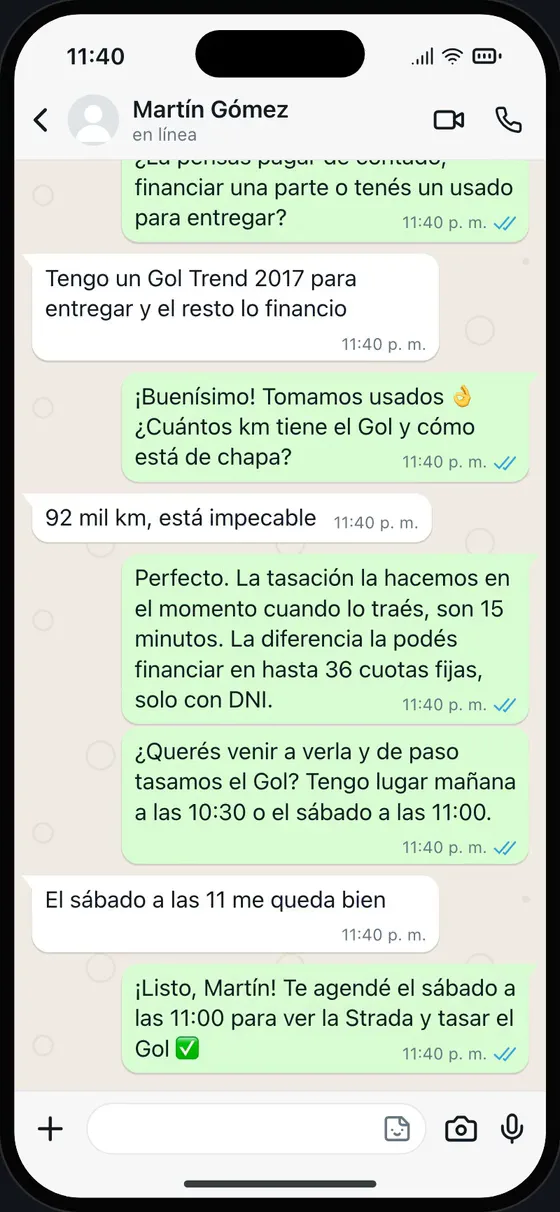
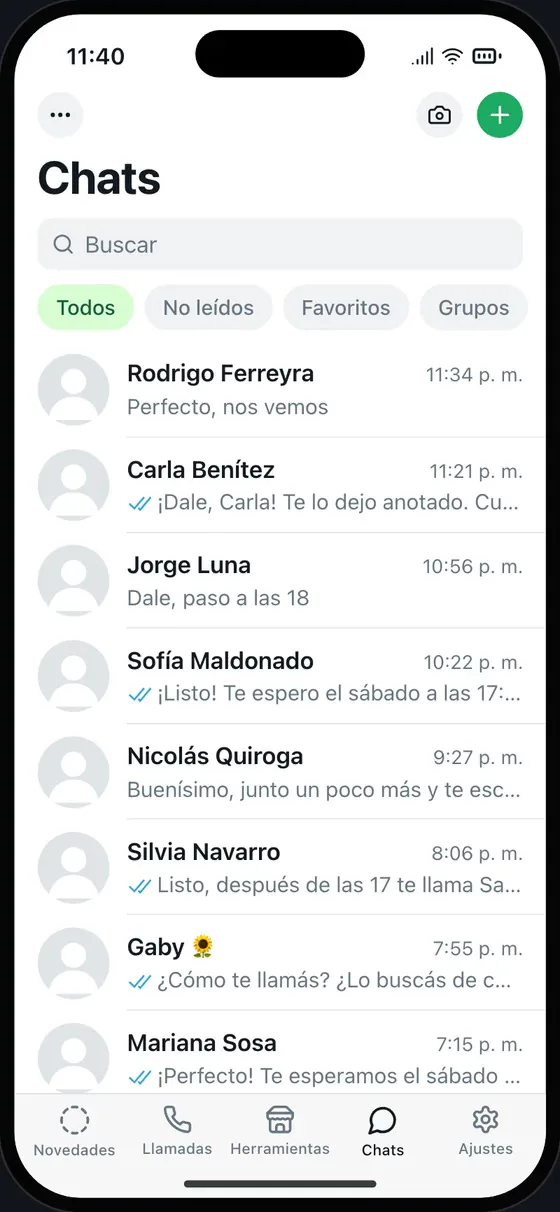
Put the demo phone first on /automatizaciones and version the asset URLs
Cloudflare keeps /assets/* cached for hours, so the page went live with the old
stylesheet and the new section showed up unstyled (the video at full size on a phone).
Styles, scripts and the demo media now carry a content hash in the URL.

The video moves into the hero: next to the title on a wide screen and before it on a
phone. Its steps follow in their own section. The poster is the first frame, so
nothing jumps when playback starts.

diff --git a/club/iman-unificado/experience/reading.css b/club/iman-unificado/experience/reading.css
@@ -1,3 +1,3 @@
-html:has(.reading){height:auto;scroll-behavior:smooth;scroll-padding-top:95px}.reading{height:auto;min-height:100%;overflow:visible;text-align:center}.reading .site-header{position:relative;left:auto;right:auto;margin:0 var(--gutter)}.reading main{position:relative;max-width:1120px;margin:0 auto;padding:0 28px}.reading h1{font-size:clamp(44px,6.6vw,90px);line-height:1.13;letter-spacing:-.05em;text-wrap:balance;margin:0 auto 30px}.reading h2{font-size:clamp(31px,4vw,50px);line-height:1.2;margin:0 0 25px;letter-spacing:-.045em;text-wrap:balance}.reading h3{font:clamp(28px,4vw,45px)/1.2 var(--display);font-weight:400}.reading h3 em{font-family:var(--serif)}.reading p,.reading li{font-size:14px;line-height:1.95;color:#bcc5d3}.reading p a,.reading-content a,.form-note a,.consent a{color:var(--ink);text-decoration:underline;text-underline-offset:4px}.eyebrow,.section-index{font:10px/1.7 var(--mono)!important;letter-spacing:.15em;text-transform:uppercase;color:var(--blue)!important}.reading-hero{padding:90px 0 110px;border-bottom:1px solid #94a4bc30}.reading-hero .eyebrow{margin:0 0 30px}.reading-intro{max-width:650px;margin:0 auto 34px;font-size:16px!important;text-wrap:balance}.reading-content{max-width:740px;margin:0 auto}.reading-section{padding:78px 0 65px;border-bottom:1px solid #94a4bc30}.section-index{display:block;margin-bottom:24px}.reading-section p{max-width:630px;margin:0 auto 18px}.reading-section ul{list-style:none;margin:32px auto 0;padding:0;max-width:590px}.reading-section li{border-top:1px solid #94a4bc22;padding:13px 0}.faq{padding:80px 0 40px}.faq h2{margin-bottom:38px}.faq details{text-align:left;border-top:1px solid #94a4bc40;padding:23px 0}.faq summary{font-size:15px;line-height:1.6;cursor:pointer;padding-right:15px}.faq details p{margin-bottom:0}.inquiry{max-width:760px;margin:0 auto;padding:100px 0 80px;scroll-margin-top:25px}.inquiry>.eyebrow{margin-bottom:24px}.intro-small{margin-bottom:45px!important}.form-grid{display:grid;grid-template-columns:1fr 1fr;gap:26px 22px}.field{display:flex;flex-direction:column;gap:11px;text-align:left;font:12px/1.6 var(--serif);margin-bottom:25px}.form-grid .field{margin-bottom:0}.field input,.field select,.field textarea{width:100%;border:1px solid #94a4bc66;border-radius:0;background:#161a23;color:var(--ink);padding:16px;font:14px/1.6 var(--serif);min-height:54px;appearance:auto}.field textarea{resize:vertical;min-height:150px}.field input::placeholder,.field textarea::placeholder{color:#8190a6}.field input:focus,.field select:focus,.field textarea:focus{border-color:var(--blue);outline:1px solid var(--blue);outline-offset:2px}.form-grid{margin-bottom:27px}.service-choices{border:0;padding:0;margin:0 0 35px;text-align:left}.service-choices legend{font-size:13px}.service-choices p{font-size:12px;margin:9px 0 18px}.service-choices>div{display:grid;grid-template-columns:repeat(3,1fr);gap:10px}.service-choice{position:relative;display:flex;align-items:center;gap:10px;padding:16px 13px;border:1px solid #94a4bc55;cursor:pointer;font-size:11px;line-height:1.6;transition:background .18s,border-color .18s}.service-choice:has(:checked){background:#94a4bc1a;border-color:#94a4bc}.service-choice input,.consent input{accent-color:#94a4bc;width:16px;height:16px;flex:0 0 16px;cursor:pointer}.consent{display:flex;align-items:flex-start;text-align:left;gap:12px;font-size:11px;line-height:1.9;color:#bcc5d3;margin:0 0 30px}.consent input{margin-top:3px}.honey{position:absolute;left:-9999px;width:1px;height:1px;overflow:hidden}.field-error,.form-error{color:#edb9b9!important;font-size:12px;line-height:1.7}.field-error{display:block;margin-top:9px}.form-error{padding:15px;border:1px solid #edb9b955}.form-status{font-size:12px!important}.form-note{font-size:11px!important;margin:23px 0}.cta:disabled{opacity:.5;cursor:wait}.inquiry-success{padding:30px 10px}.reading-footer{max-width:1120px;margin:0 auto;padding:45px 28px 35px;border-top:1px solid #94a4bc30;display:flex;flex-direction:column;gap:27px;font-size:11px;color:var(--muted)}.reading-footer>a{font:24px/1 var(--display);color:var(--ink)}.reading-footer nav{display:flex;flex-wrap:wrap;justify-content:center;gap:15px 25px}.reading-footer nav a:hover{text-decoration:underline;text-underline-offset:4px}.reading-footer>span{font:10px var(--mono)}.service-directory{max-width:740px;margin:auto}.service-directory article{padding:65px 0;border-bottom:1px solid #94a4bc30}.service-directory p{max-width:630px;margin-left:auto;margin-right:auto}.legacy-reading .document-head{padding:80px 0}.legacy-reading .archive-article,.legacy-reading .legal-document{max-width:730px;margin:0 auto 70px;text-align:left}.legacy-reading .archive-article h2,.legacy-reading .legal-document h2{margin-top:55px}.legacy-reading .archive-article h3{font-size:28px;margin-top:35px}.legacy-reading .resource-entry{display:block;border-top:1px solid #94a4bc30;padding:40px 0;max-width:760px;margin:auto}.legacy-reading .resource-entry>span{font:10px var(--mono);color:var(--blue)}.legacy-reading .resource-entry h2{margin:20px 0;font-size:33px}.legacy-reading .resource-entry p{max-width:670px;margin:auto}.legacy-reading .document-links{padding:50px 0}.legacy-reading table{border-collapse:collapse;width:100%;font-size:12px}.legacy-reading td,.legacy-reading th{padding:12px;border:1px solid #94a4bc40}.legacy-reading .table-wrap{overflow:auto}.cta-row{display:flex;flex-wrap:wrap;justify-content:center;gap:14px}.cta.solid{background:var(--ink);color:#11141b;border-color:var(--ink)}.demo{padding:85px 0 80px;border-bottom:1px solid #94a4bc30}.demo>.eyebrow{margin:0 0 24px}.demo h2{margin-bottom:50px}.demo-stage{display:grid;grid-template-columns:minmax(0,300px) minmax(0,360px);justify-content:center;align-items:center;gap:60px}.demo-video{display:block;width:100%;height:auto;border-radius:14.4%/6.65%;background:#050505;box-shadow:0 0 0 1px #2b2b2e,0 30px 60px #0008}.demo-steps{list-style:none;margin:0;padding:0;text-align:left;counter-reset:paso}.demo-steps li{position:relative;counter-increment:paso;padding:17px 0 17px 44px;border-top:1px solid #94a4bc22;cursor:pointer;opacity:.5;transition:opacity .35s}.demo-steps li:last-child{border-bottom:1px solid #94a4bc22}.demo-steps li::before{content:'0' counter(paso);position:absolute;left:0;top:22px;font:11px/1 var(--mono);letter-spacing:.1em;color:var(--blue)}.demo-steps li.on{opacity:1}.demo-steps li.on::before{color:var(--gold)}.demo-steps b{display:block;font:400 21px/1.3 var(--display);letter-spacing:-.03em;color:var(--ink)}.demo-steps span{display:block;font-size:12px;line-height:1.8;color:#bcc5d3;margin-top:4px}.demo-note{max-width:560px;margin:42px auto 34px;font-size:11px!important;line-height:1.9!important;color:var(--muted)!important}[hidden]{display:none!important}
-@media(max-width:600px){.demo{padding:60px 0 55px}.demo h2{margin-bottom:34px}.demo-stage{grid-template-columns:1fr;gap:30px}.demo-video{max-width:270px;margin:0 auto}.demo-steps{max-width:340px;margin:0 auto}.demo-steps b{font-size:19px}.cta-row .cta{width:100%;max-width:340px}.reading main{padding:0 23px}.reading-hero{padding:55px 0 70px}.reading-intro{font-size:14px!important}.reading h1{font-size:43px}.reading-section{padding:55px 0 40px}.reading p,.reading li{font-size:13px}.inquiry{padding:70px 0 50px}.form-grid{grid-template-columns:1fr;gap:24px}.field input,.field select,.field textarea{font-size:16px}.service-choices>div{grid-template-columns:1fr}.service-choice{font-size:12px;padding:17px}.faq summary{font-size:13px}.reading-footer{margin:0 23px;padding-left:0;padding-right:0}.legacy-reading .archive-article h2{font-size:30px}}
+html:has(.reading){height:auto;scroll-behavior:smooth;scroll-padding-top:95px}.reading{height:auto;min-height:100%;overflow:visible;text-align:center}.reading .site-header{position:relative;left:auto;right:auto;margin:0 var(--gutter)}.reading main{position:relative;max-width:1120px;margin:0 auto;padding:0 28px}.reading h1{font-size:clamp(44px,6.6vw,90px);line-height:1.13;letter-spacing:-.05em;text-wrap:balance;margin:0 auto 30px}.reading h2{font-size:clamp(31px,4vw,50px);line-height:1.2;margin:0 0 25px;letter-spacing:-.045em;text-wrap:balance}.reading h3{font:clamp(28px,4vw,45px)/1.2 var(--display);font-weight:400}.reading h3 em{font-family:var(--serif)}.reading p,.reading li{font-size:14px;line-height:1.95;color:#bcc5d3}.reading p a,.reading-content a,.form-note a,.consent a{color:var(--ink);text-decoration:underline;text-underline-offset:4px}.eyebrow,.section-index{font:10px/1.7 var(--mono)!important;letter-spacing:.15em;text-transform:uppercase;color:var(--blue)!important}.reading-hero{padding:90px 0 110px;border-bottom:1px solid #94a4bc30}.reading-hero .eyebrow{margin:0 0 30px}.reading-intro{max-width:650px;margin:0 auto 34px;font-size:16px!important;text-wrap:balance}.reading-content{max-width:740px;margin:0 auto}.reading-section{padding:78px 0 65px;border-bottom:1px solid #94a4bc30}.section-index{display:block;margin-bottom:24px}.reading-section p{max-width:630px;margin:0 auto 18px}.reading-section ul{list-style:none;margin:32px auto 0;padding:0;max-width:590px}.reading-section li{border-top:1px solid #94a4bc22;padding:13px 0}.faq{padding:80px 0 40px}.faq h2{margin-bottom:38px}.faq details{text-align:left;border-top:1px solid #94a4bc40;padding:23px 0}.faq summary{font-size:15px;line-height:1.6;cursor:pointer;padding-right:15px}.faq details p{margin-bottom:0}.inquiry{max-width:760px;margin:0 auto;padding:100px 0 80px;scroll-margin-top:25px}.inquiry>.eyebrow{margin-bottom:24px}.intro-small{margin-bottom:45px!important}.form-grid{display:grid;grid-template-columns:1fr 1fr;gap:26px 22px}.field{display:flex;flex-direction:column;gap:11px;text-align:left;font:12px/1.6 var(--serif);margin-bottom:25px}.form-grid .field{margin-bottom:0}.field input,.field select,.field textarea{width:100%;border:1px solid #94a4bc66;border-radius:0;background:#161a23;color:var(--ink);padding:16px;font:14px/1.6 var(--serif);min-height:54px;appearance:auto}.field textarea{resize:vertical;min-height:150px}.field input::placeholder,.field textarea::placeholder{color:#8190a6}.field input:focus,.field select:focus,.field textarea:focus{border-color:var(--blue);outline:1px solid var(--blue);outline-offset:2px}.form-grid{margin-bottom:27px}.service-choices{border:0;padding:0;margin:0 0 35px;text-align:left}.service-choices legend{font-size:13px}.service-choices p{font-size:12px;margin:9px 0 18px}.service-choices>div{display:grid;grid-template-columns:repeat(3,1fr);gap:10px}.service-choice{position:relative;display:flex;align-items:center;gap:10px;padding:16px 13px;border:1px solid #94a4bc55;cursor:pointer;font-size:11px;line-height:1.6;transition:background .18s,border-color .18s}.service-choice:has(:checked){background:#94a4bc1a;border-color:#94a4bc}.service-choice input,.consent input{accent-color:#94a4bc;width:16px;height:16px;flex:0 0 16px;cursor:pointer}.consent{display:flex;align-items:flex-start;text-align:left;gap:12px;font-size:11px;line-height:1.9;color:#bcc5d3;margin:0 0 30px}.consent input{margin-top:3px}.honey{position:absolute;left:-9999px;width:1px;height:1px;overflow:hidden}.field-error,.form-error{color:#edb9b9!important;font-size:12px;line-height:1.7}.field-error{display:block;margin-top:9px}.form-error{padding:15px;border:1px solid #edb9b955}.form-status{font-size:12px!important}.form-note{font-size:11px!important;margin:23px 0}.cta:disabled{opacity:.5;cursor:wait}.inquiry-success{padding:30px 10px}.reading-footer{max-width:1120px;margin:0 auto;padding:45px 28px 35px;border-top:1px solid #94a4bc30;display:flex;flex-direction:column;gap:27px;font-size:11px;color:var(--muted)}.reading-footer>a{font:24px/1 var(--display);color:var(--ink)}.reading-footer nav{display:flex;flex-wrap:wrap;justify-content:center;gap:15px 25px}.reading-footer nav a:hover{text-decoration:underline;text-underline-offset:4px}.reading-footer>span{font:10px var(--mono)}.service-directory{max-width:740px;margin:auto}.service-directory article{padding:65px 0;border-bottom:1px solid #94a4bc30}.service-directory p{max-width:630px;margin-left:auto;margin-right:auto}.legacy-reading .document-head{padding:80px 0}.legacy-reading .archive-article,.legacy-reading .legal-document{max-width:730px;margin:0 auto 70px;text-align:left}.legacy-reading .archive-article h2,.legacy-reading .legal-document h2{margin-top:55px}.legacy-reading .archive-article h3{font-size:28px;margin-top:35px}.legacy-reading .resource-entry{display:block;border-top:1px solid #94a4bc30;padding:40px 0;max-width:760px;margin:auto}.legacy-reading .resource-entry>span{font:10px var(--mono);color:var(--blue)}.legacy-reading .resource-entry h2{margin:20px 0;font-size:33px}.legacy-reading .resource-entry p{max-width:670px;margin:auto}.legacy-reading .document-links{padding:50px 0}.legacy-reading table{border-collapse:collapse;width:100%;font-size:12px}.legacy-reading td,.legacy-reading th{padding:12px;border:1px solid #94a4bc40}.legacy-reading .table-wrap{overflow:auto}.cta-row{display:flex;flex-wrap:wrap;justify-content:center;gap:14px}.cta.solid{background:var(--ink);color:#11141b;border-color:var(--ink)}.demo-hero{display:grid;grid-template-columns:minmax(0,1fr) 300px;align-items:center;gap:70px;padding:70px 0 90px;text-align:left}.demo-hero h1{font-size:clamp(40px,5.2vw,70px);margin:0 0 28px}.demo-hero .reading-intro{margin:0 0 34px}.demo-hero .cta-row{justify-content:flex-start}.demo-video{display:block;width:100%;height:auto;border-radius:14.4%/6.65%;background:#050505;box-shadow:0 0 0 1px #2b2b2e,0 30px 60px #0008}.demo{padding:85px 0 80px;border-bottom:1px solid #94a4bc30}.demo>.eyebrow{margin:0 0 24px}.demo h2{margin-bottom:40px}.demo-steps{list-style:none;margin:0 auto;padding:0;max-width:520px;text-align:left;counter-reset:paso}.demo-steps li{position:relative;counter-increment:paso;padding:17px 0 17px 44px;border-top:1px solid #94a4bc22;cursor:pointer;opacity:.5;transition:opacity .35s}.demo-steps li:last-child{border-bottom:1px solid #94a4bc22}.demo-steps li::before{content:'0' counter(paso);position:absolute;left:0;top:22px;font:11px/1 var(--mono);letter-spacing:.1em;color:var(--blue)}.demo-steps li.on{opacity:1}.demo-steps li.on::before{color:var(--gold)}.demo-steps b{display:block;font:400 21px/1.3 var(--display);letter-spacing:-.03em;color:var(--ink)}.demo-steps span{display:block;font-size:12px;line-height:1.8;color:#bcc5d3;margin-top:4px}.demo-note{max-width:560px;margin:42px auto 34px;font-size:11px!important;line-height:1.9!important;color:var(--muted)!important}[hidden]{display:none!important}
+@media(max-width:600px){.demo-hero{display:flex;flex-direction:column;align-items:center;gap:0;padding:22px 0 60px;text-align:center}.demo-copy{display:contents}.demo-hero .eyebrow{order:0;margin:0 0 20px}.demo-phone{order:1;width:min(64vw,250px);margin:0 0 38px}.demo-hero h1{order:2;font-size:40px;margin:0 0 22px}.demo-hero .reading-intro{order:3;margin:0 0 28px}.demo-hero .cta-row{order:4;justify-content:center;width:100%}.demo{padding:60px 0 55px}.demo h2{margin-bottom:30px}.demo-steps b{font-size:19px}.cta-row .cta{width:100%;max-width:340px}.reading main{padding:0 23px}.reading-hero{padding:55px 0 70px}.reading-intro{font-size:14px!important}.reading h1{font-size:43px}.reading-section{padding:55px 0 40px}.reading p,.reading li{font-size:13px}.inquiry{padding:70px 0 50px}.form-grid{grid-template-columns:1fr;gap:24px}.field input,.field select,.field textarea{font-size:16px}.service-choices>div{grid-template-columns:1fr}.service-choice{font-size:12px;padding:17px}.faq summary{font-size:13px}.reading-footer{margin:0 23px;padding-left:0;padding-right:0}.legacy-reading .archive-article h2{font-size:30px}}
 @media(prefers-reduced-motion:reduce){.demo-steps li{transition:none}html:has(.reading){scroll-behavior:auto}}

diff --git a/club/iman-unificado/scripts/dark_site.py b/club/iman-unificado/scripts/dark_site.py
@@ -1,7 +1,7 @@
 """Production layer for the approved IMÁN experience and readable service pages."""
 from pathlib import Path
 from html import escape as e
-import json, re, shutil
+import hashlib, json, re, shutil
 
 ROOT=Path(__file__).resolve().parents[1]
 SOURCE=ROOT/'experience'
@@ -17,6 +17,12 @@ def schemas(path,title,desc,extra=()):
 def seo(path,title,desc,extra=()):
     return f'''<link rel="canonical" href="{BASE}{path}"><meta name="robots" content="index,follow,max-image-preview:large"><meta property="og:url" content="{BASE}{path}"><meta property="og:site_name" content="IMÁN"><meta property="og:image" content="{BASE}/assets/editorial-og.png"><meta property="og:image:width" content="1200"><meta property="og:image:height" content="630"><meta property="og:image:alt" content="IMÁN · Vendé más. Trabajá menos."><meta name="twitter:card" content="summary_large_image">{schemas(path,title,desc,extra)}'''
 
+def asset(name):
+    # Cloudflare keeps /assets/* cached for hours: the content hash in the URL makes a new version show up at once.
+    # Files in experience/assets/ are published next to the styles and scripts, in the same folder.
+    source=SOURCE/name if (SOURCE/name).exists() else SOURCE/'assets'/name
+    return f'/assets/experience/{name}?v={hashlib.md5(source.read_bytes()).hexdigest()[:8]}'
+
 def button(label,url):
     return f'<a class="cta" href="{e(url,quote=True)}"><span class="cta-label">{e(label)}</span></a>'
 
@@ -28,16 +34,20 @@ def actions():
 
 # Seconds of the video at which each step happens (experience/assets/demo-agencia.json, written by scripts/capture-agencia-video.mjs).
 DEMO=json.loads((SOURCE/'assets/demo-agencia.json').read_text())
-def demo():
+def demo(s):
+    """Hero of the WhatsApp page: the title next to the dealership demo (on a phone, the video comes first), then its steps."""
+    title=e(s['title']).replace(e(s['emphasis']),'<em>'+e(s['emphasis'])+'</em>')
     steps=[(0,'Llega la consulta','De noche, desde la publicación de Mercado Libre.'),(DEMO['responde'],'Responde en segundos','Con el stock y el precio que cargó la agencia.'),(DEMO['califica'],'Pregunta cómo paga','Contado, financiado o con un usado en parte de pago.'),(DEMO['financia'],'Propone un horario','Explica la financiación y ofrece dos turnos para ver la unidad.'),(DEMO['agenda'],'Agenda la visita','Y le avisa al vendedor que hay un comprador listo.')]
     items=''.join(f'<li data-at="{at}"><b>{e(title)}</b><span>{e(text)}</span></li>' for at,title,text in steps)
-    return f'<section class="demo" aria-labelledby="demo-title"><p class="eyebrow">UN EJEMPLO · AGENCIA DE AUTOS</p><h2 id="demo-title">De la consulta<br><em>a la visita agendada.</em></h2><div class="demo-stage"><video class="demo-video" width="{DEMO["ancho"]}" height="{DEMO["alto"]}" muted loop playsinline preload="metadata" poster="/assets/experience/demo-agencia.webp" aria-label="Video de un asistente de WhatsApp que responde una consulta por una camioneta, pregunta cómo paga el comprador y agenda la visita."><source src="/assets/experience/demo-agencia.mp4" type="video/mp4"></video><ol class="demo-steps">{items}</ol></div><p class="demo-note">Demostración con datos de ejemplo: el asistente se arma con la información y las reglas de cada negocio. Foto del vehículo: Just a Man / Wikimedia Commons, CC BY 4.0.</p>{actions()}</section>'
+    video=f'<video class="demo-video" width="{DEMO["ancho"]}" height="{DEMO["alto"]}" muted loop playsinline preload="metadata" poster="{asset("demo-agencia.webp")}" aria-label="Video de un asistente de WhatsApp que responde una consulta por una camioneta, pregunta cómo paga el comprador y agenda la visita."><source src="{asset("demo-agencia.mp4")}" type="video/mp4"></video>'
+    hero=f'<section class="reading-hero demo-hero"><div class="demo-copy"><p class="eyebrow">{e(s["name"])} · Ejemplo: agencia de autos</p><h1>{title}</h1><p class="reading-intro">{e(s["intro"])}</p>{actions()}</div><div class="demo-phone">{video}</div></section>'
+    return hero+f'<section class="demo" aria-labelledby="demo-title"><p class="eyebrow">QUÉ PASA EN EL VIDEO</p><h2 id="demo-title">De la consulta<br><em>a la visita agendada.</em></h2><ol class="demo-steps">{items}</ol><p class="demo-note">Demostración con datos de ejemplo: el asistente se arma con la información y las reglas de cada negocio. Foto del vehículo: Just a Man / Wikimedia Commons, CC BY 4.0.</p>{actions()}</section>'
 
 def footer():
     return '<footer class="reading-footer"><a href="/">IMÁN</a><nav aria-label="Más sobre IMÁN"><a href="/servicios/">Servicios</a><a href="/recursos/">Guías</a><a href="/agente/">Para agentes</a><a href="/privacidad/">Privacidad</a><a href="https://wa.me/5493535189997">WhatsApp</a></nav><span>Hecho en Argentina.</span></footer>'
 
 def shell(path,title,desc,body,extra=()):
-    return f'''<!doctype html><html lang="es-AR" data-theme="dark"><head><meta charset="utf-8"><meta name="viewport" content="width=device-width,initial-scale=1,viewport-fit=cover"><meta name="theme-color" content="#11141b"><meta name="color-scheme" content="dark"><title>{e(title)}</title><meta name="description" content="{e(desc,quote=True)}"><meta property="og:title" content="{e(title,quote=True)}"><meta property="og:description" content="{e(desc,quote=True)}"><meta property="og:type" content="website"><meta property="og:locale" content="es_AR">{seo(path,title,desc,extra)}<link rel="icon" href="/assets/experience/iman-simbolo.svg" type="image/svg+xml"><link rel="preload" href="/assets/experience/playfair-display-sc.ttf" as="font" type="font/ttf" crossorigin><link rel="stylesheet" href="/assets/experience/site.css"><link rel="stylesheet" href="/assets/experience/reading.css"><script src="/assets/experience/form.js" defer></script><script src="/assets/experience/demo.js" defer></script><script src="/assets/experience/pixel.js" defer></script></head><body class="reading"><a class="skip" href="#contenido">Saltar al contenido</a><header class="site-header"><a class="identity" href="/" aria-label="IMÁN, inicio"><span class="wordmark">imán</span></a><a class="header-contact" href="/contacto/">Hablemos</a></header><main id="contenido">{body}</main>{footer()}</body></html>'''
+    return f'''<!doctype html><html lang="es-AR" data-theme="dark"><head><meta charset="utf-8"><meta name="viewport" content="width=device-width,initial-scale=1,viewport-fit=cover"><meta name="theme-color" content="#11141b"><meta name="color-scheme" content="dark"><title>{e(title)}</title><meta name="description" content="{e(desc,quote=True)}"><meta property="og:title" content="{e(title,quote=True)}"><meta property="og:description" content="{e(desc,quote=True)}"><meta property="og:type" content="website"><meta property="og:locale" content="es_AR">{seo(path,title,desc,extra)}<link rel="icon" href="/assets/experience/iman-simbolo.svg" type="image/svg+xml"><link rel="preload" href="/assets/experience/playfair-display-sc.ttf" as="font" type="font/ttf" crossorigin><link rel="stylesheet" href="{asset('site.css')}"><link rel="stylesheet" href="{asset('reading.css')}"><script src="{asset('form.js')}" defer></script><script src="{asset('demo.js')}" defer></script><script src="{asset('pixel.js')}" defer></script></head><body class="reading"><a class="skip" href="#contenido">Saltar al contenido</a><header class="site-header"><a class="identity" href="/" aria-label="IMÁN, inicio"><span class="wordmark">imán</span></a><a class="header-contact" href="/contacto/">Hablemos</a></header><main id="contenido">{body}</main>{footer()}</body></html>'''
 
 def form(selected=''):
     fields=''
@@ -50,7 +60,8 @@ def form(selected=''):
 
 def service_body(s):
     title=e(s['title']).replace(e(s['emphasis']),'<em>'+e(s['emphasis'])+'</em>')
-    body=f'<section class="reading-hero"><p class="eyebrow">{e(s["name"])}</p><h1>{title}</h1><p class="reading-intro">{e(s["intro"])}</p>{actions() if s["id"]=="whatsapp" else button("Contanos tu idea", "#consulta")}</section>{demo() if s["id"]=="whatsapp" else ""}<article class="reading-content">'
+    hero=demo(s) if s['id']=='whatsapp' else f'<section class="reading-hero"><p class="eyebrow">{e(s["name"])}</p><h1>{title}</h1><p class="reading-intro">{e(s["intro"])}</p>{button("Contanos tu idea", "#consulta")}</section>'
+    body=hero+'<article class="reading-content">'
     for i,section in enumerate(s['sections']):
         body+=f'<section class="reading-section"><span class="section-index">0{i+1}</span><h2>{e(section["title"])}</h2><p>{e(section["text"])}</p>'
         if section['items']: body+='<ul>'+''.join('<li>'+e(x)+'</li>' for x in section['items'])+'</ul>'
@@ -74,7 +85,8 @@ def build_dark(out,pages):
     dest=out/'assets/experience';dest.mkdir(parents=True,exist_ok=True)
     shutil.copytree(SOURCE/'assets',dest,dirs_exist_ok=True)
     for name in ['site.css','home.css','home.js','reading.css','form.js','demo.js','pixel.js']:shutil.copy2(SOURCE/name,dest/name)
-    home=(SOURCE/'home.html').read_text().replace('</head>',seo('/','IMÁN — Vendé más. Trabajá menos.',INTRO)+'<script src="/assets/experience/pixel.js" defer></script></head>')
+    home=(SOURCE/'home.html').read_text().replace('</head>',seo('/','IMÁN — Vendé más. Trabajá menos.',INTRO)+f'<script src="{asset("pixel.js")}" defer></script></head>')
+    home=re.sub(r'/assets/experience/(site\.css|home\.css|home\.js)(?=")',lambda m:asset(m[1]),home)
     (out/'index.html').write_text(home)
     routes=[]
     for s in SERVICES:

diff --git a/club/iman-unificado/docs/seo/audit.md b/club/iman-unificado/docs/seo/audit.md
@@ -2,7 +2,7 @@
 
 HTML local; no verifica HTTP, rendimiento, indexación ni ranking reales.
 
-Generada: 2026-10-01T20:57:39.302499+00:00
+Generada: 2026-10-01T21:08:16.842846+00:00
 
 23 HTML · 18 URLs en sitemap · 0 errores · 0 advertencias · 0 observaciones.
 
